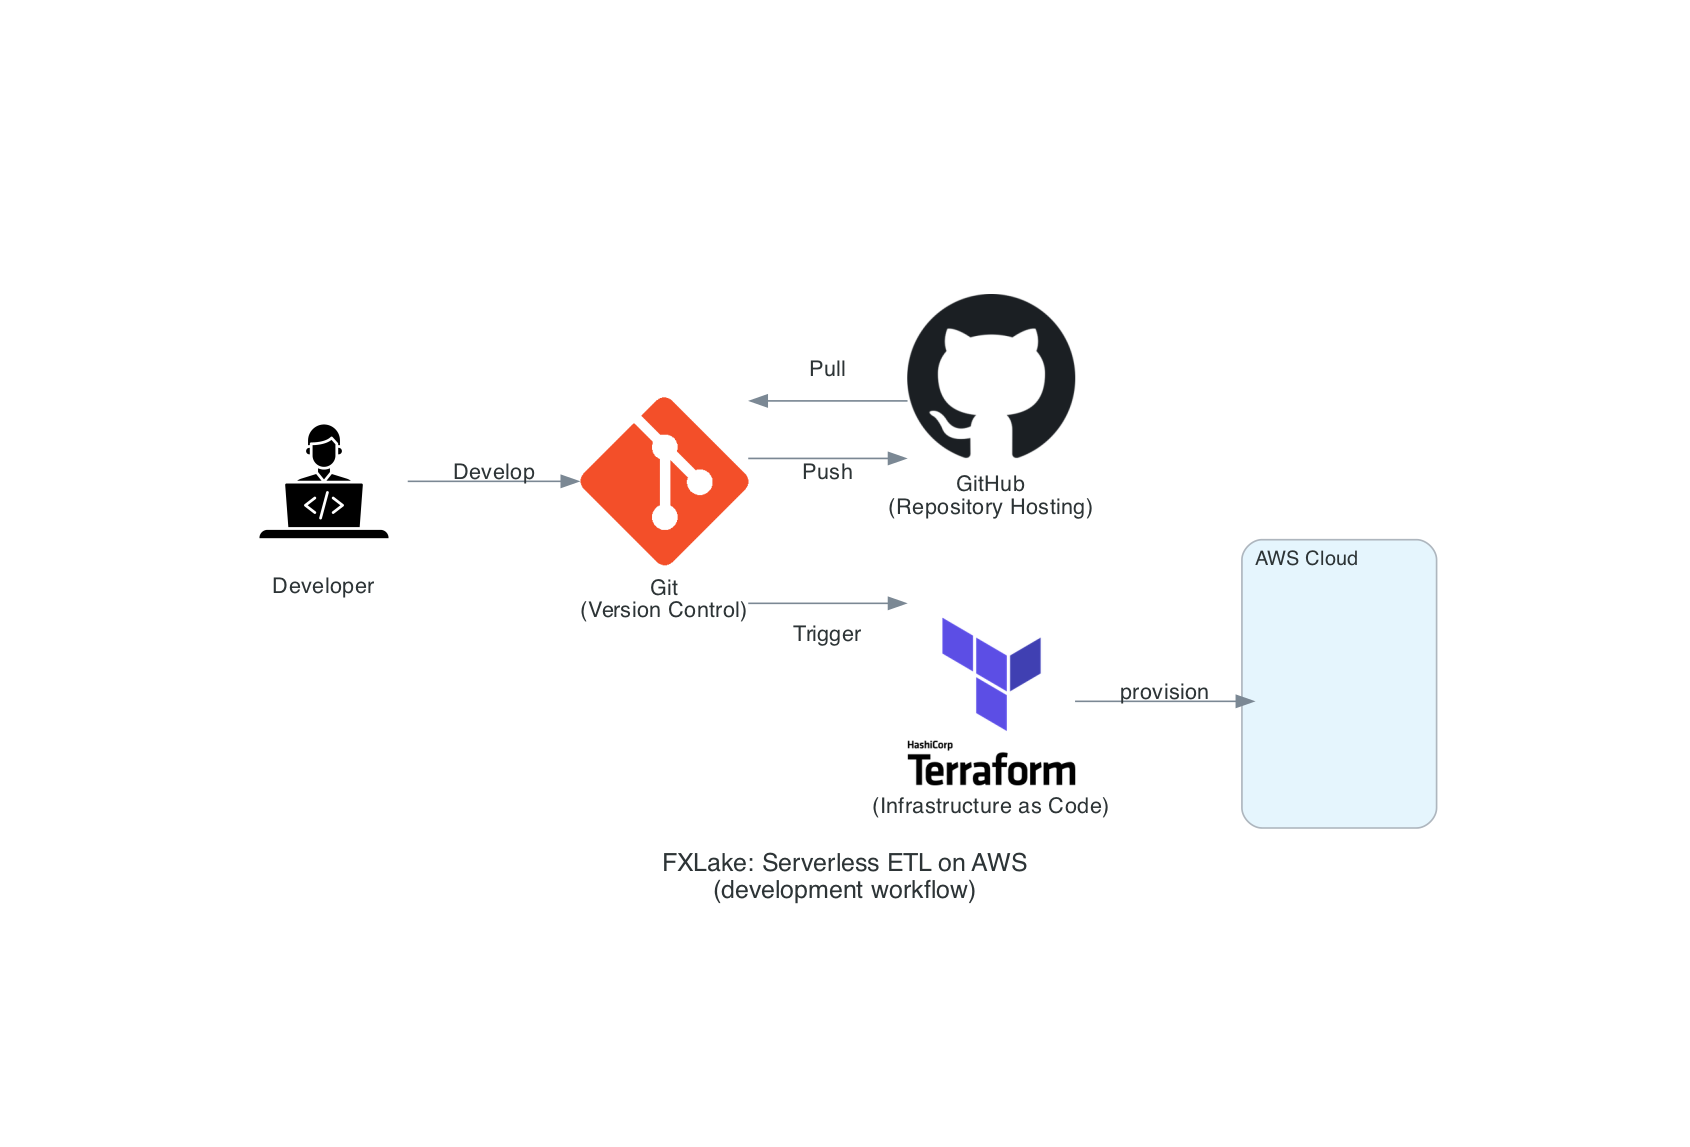
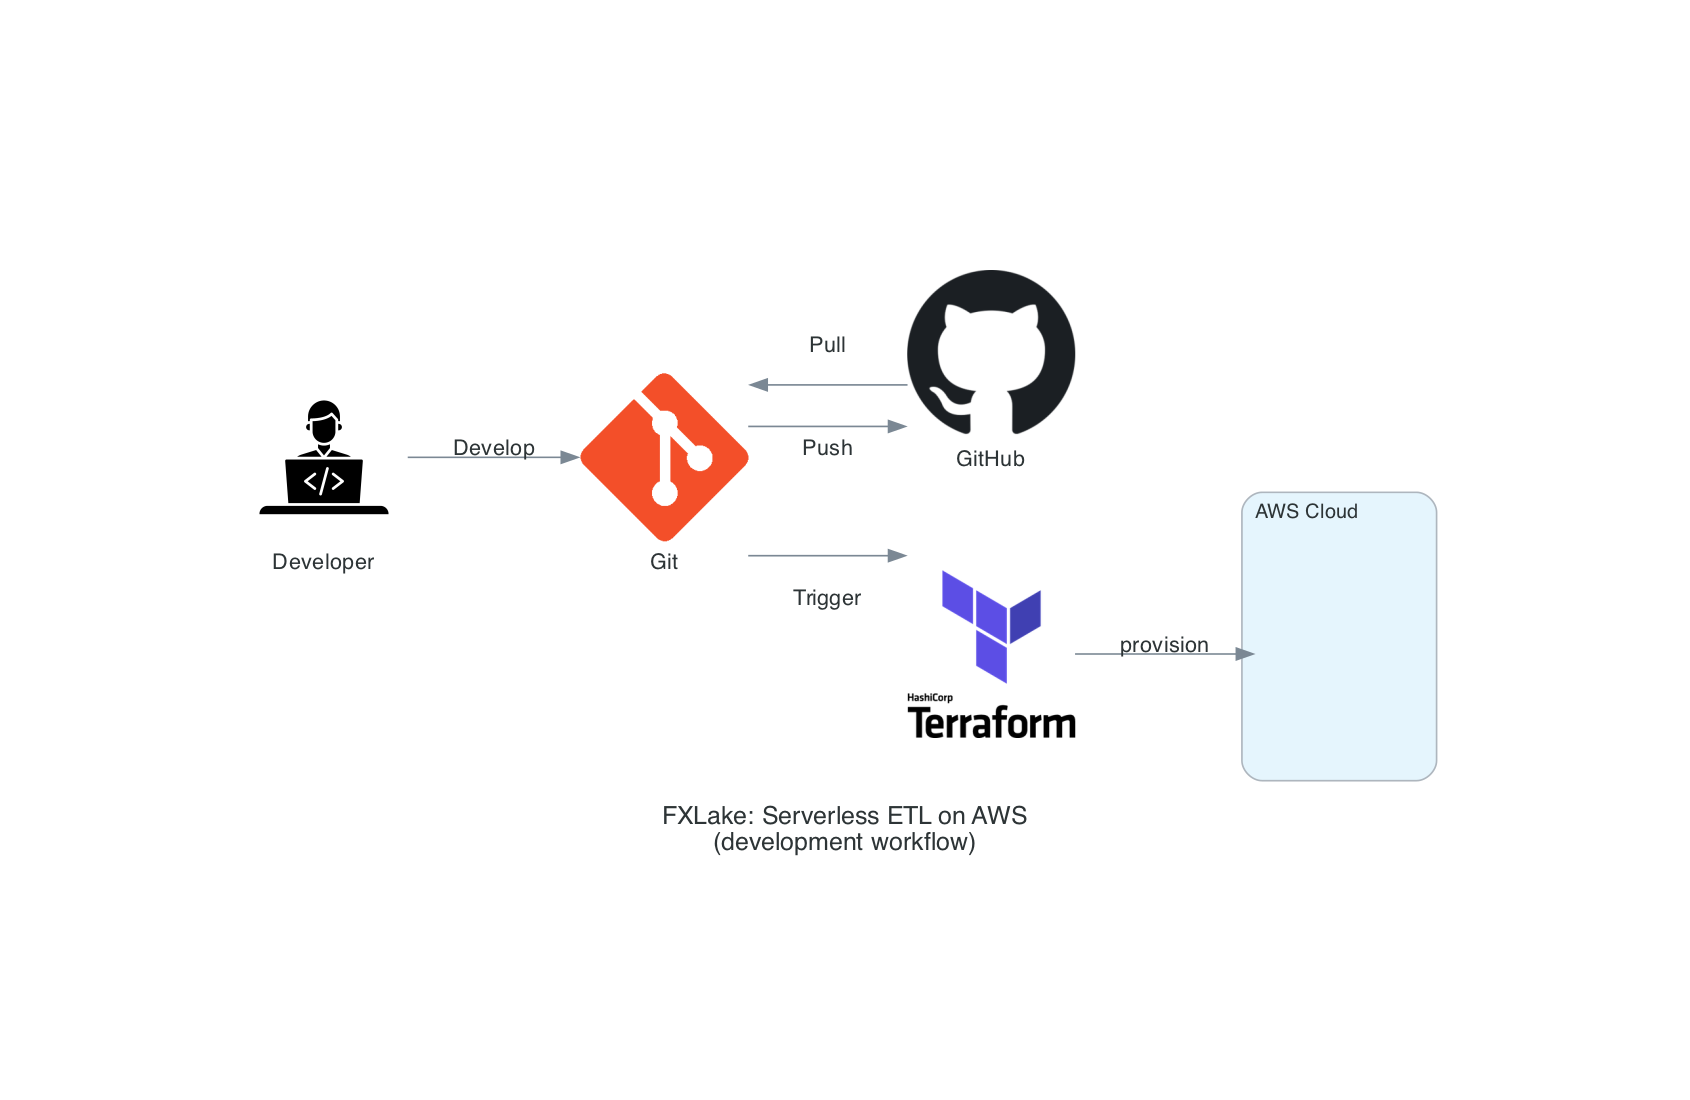
remove node subtitles in architecture and workflow diagrams

diff --git a/assets/cloud-architecture.py b/assets/cloud-architecture.py
@@ -26,7 +26,7 @@ with Diagram(
     # External factors
     dev = Custom("Developer", str(ICONS_DIR / "dev.jpg"))
     api_source = APIService("Frankfurter API")
-    terraform = Terraform("(Infrastructure as Code)")
+    terraform = Terraform("")
 
     with Cluster("AWS Cloud"):
         aws_cloud = Custom(
@@ -35,24 +35,24 @@ with Diagram(
         terraform >> Edge(label="provision") >> aws_cloud  # Provision AWS resources
 
         with Cluster("Orchestration"):
-            step_function = StepFunctions("Step Functions\n(Workflow Orchestration)")
-            eventbridge = Eventbridge("EventBridge\n(Event Routing)")
+            step_function = StepFunctions("Step Functions")
+            eventbridge = Eventbridge("EventBridge")
 
         with Cluster("ETL Pipeline"):
-            lambda_function = Lambda("Lambda\n(Serverless Compute)")
-            glue = Glue("Glue\n(ETL Service)")
-            athena = Athena("Athena\n(Query Service)")
+            lambda_function = Lambda("Lambda")
+            glue = Glue("Glue)")
+            athena = Athena("Athena")
 
         with Cluster("Data Lake"):
-            s3_raw = S3("S3 Raw Bucket\n(Raw Data)")
-            s3_processed = S3("S3 Processed Bucket\n(Processed Data)")
-            s3_athena_results = S3("S3 Athena Results\n(Sample Queries)")
+            s3_raw = S3("S3 Raw Bucket")
+            s3_processed = S3("S3 Processed Bucket")
+            s3_athena_results = S3("S3 Athena Results")
 
         with Cluster("Monitoring & Security"):
-            cloudwatch = Cloudwatch("CloudWatch\n(Monitoring)")
-            cloudtrail = Cloudtrail("CloudTrail\n(Audit Logs)")
-            iam = IAM("IAM\n(Access Management)")
-            sns = SNS("SNS\n(Notification Service)")
+            cloudwatch = Cloudwatch("CloudWatch")
+            cloudtrail = Cloudtrail("CloudTrail")
+            iam = IAM("IAM")
+            sns = SNS("SNS")
             cloudwatch_dashboard = Custom(
                 "Monitoring Dashboard", str(ICONS_DIR / "dashboard.png")
             )

diff --git a/assets/dev-workflow.py b/assets/dev-workflow.py
@@ -19,9 +19,9 @@ with Diagram(
 ):
     # Developer environment
     dev = Custom("Developer", str(ICONS_DIR / "dev.jpg"))
-    git = Git("Git\n(Version Control)")
-    github = Github("GitHub\n(Repository Hosting)")
-    terraform = Terraform("(Infrastructure as Code)")
+    git = Git("Git")
+    github = Github("GitHub")
+    terraform = Terraform("")
 
     dev >> Edge(label="Develop") >> git  # Developer pushes to version control
 
